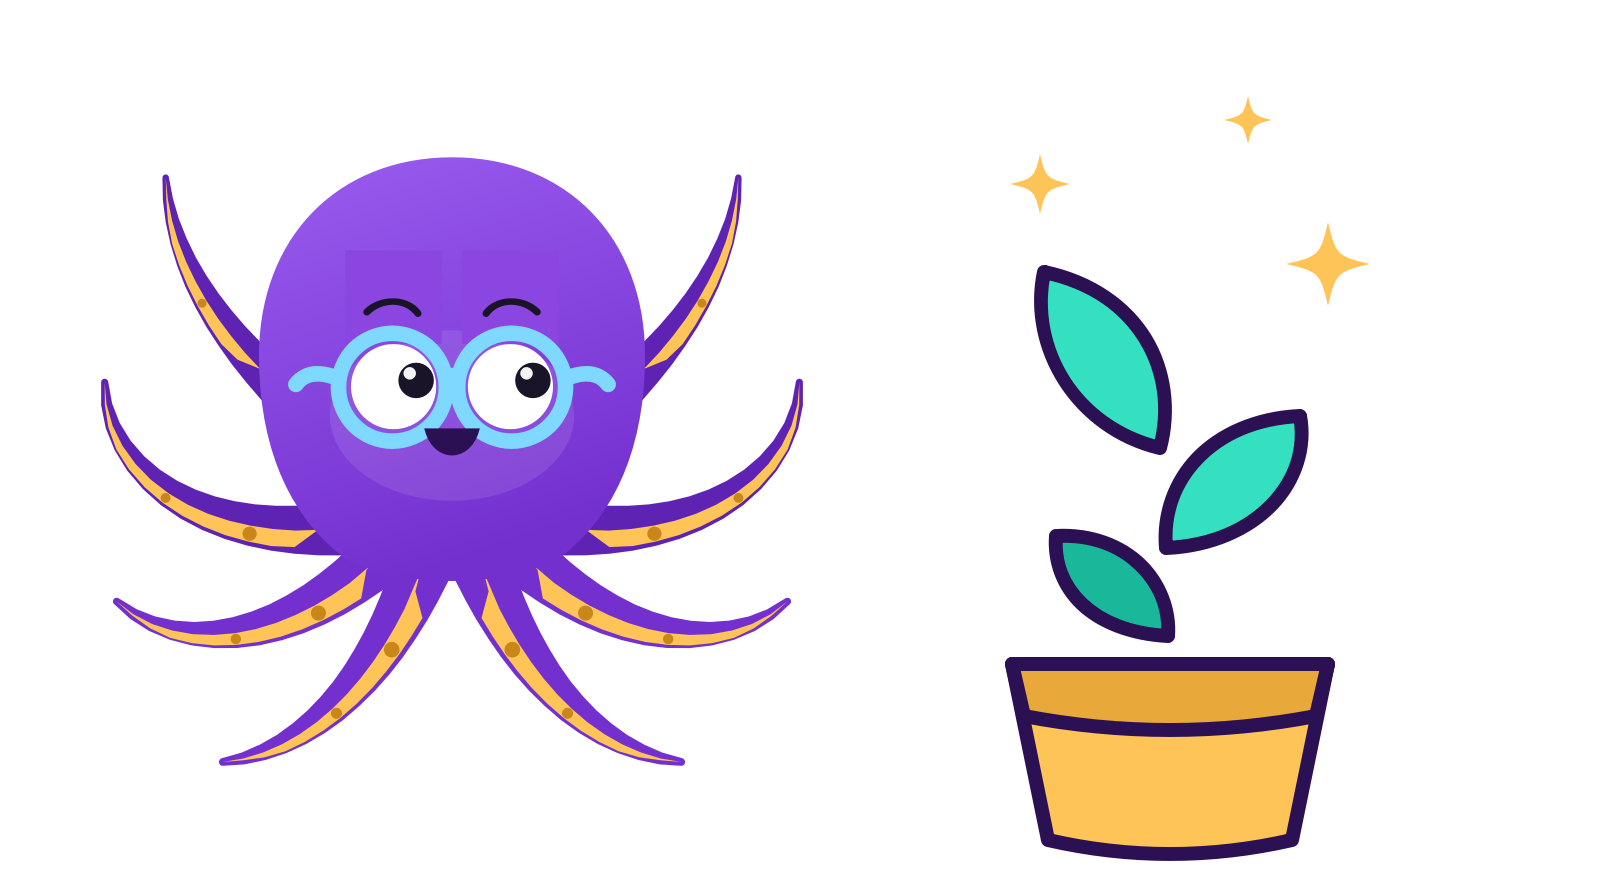
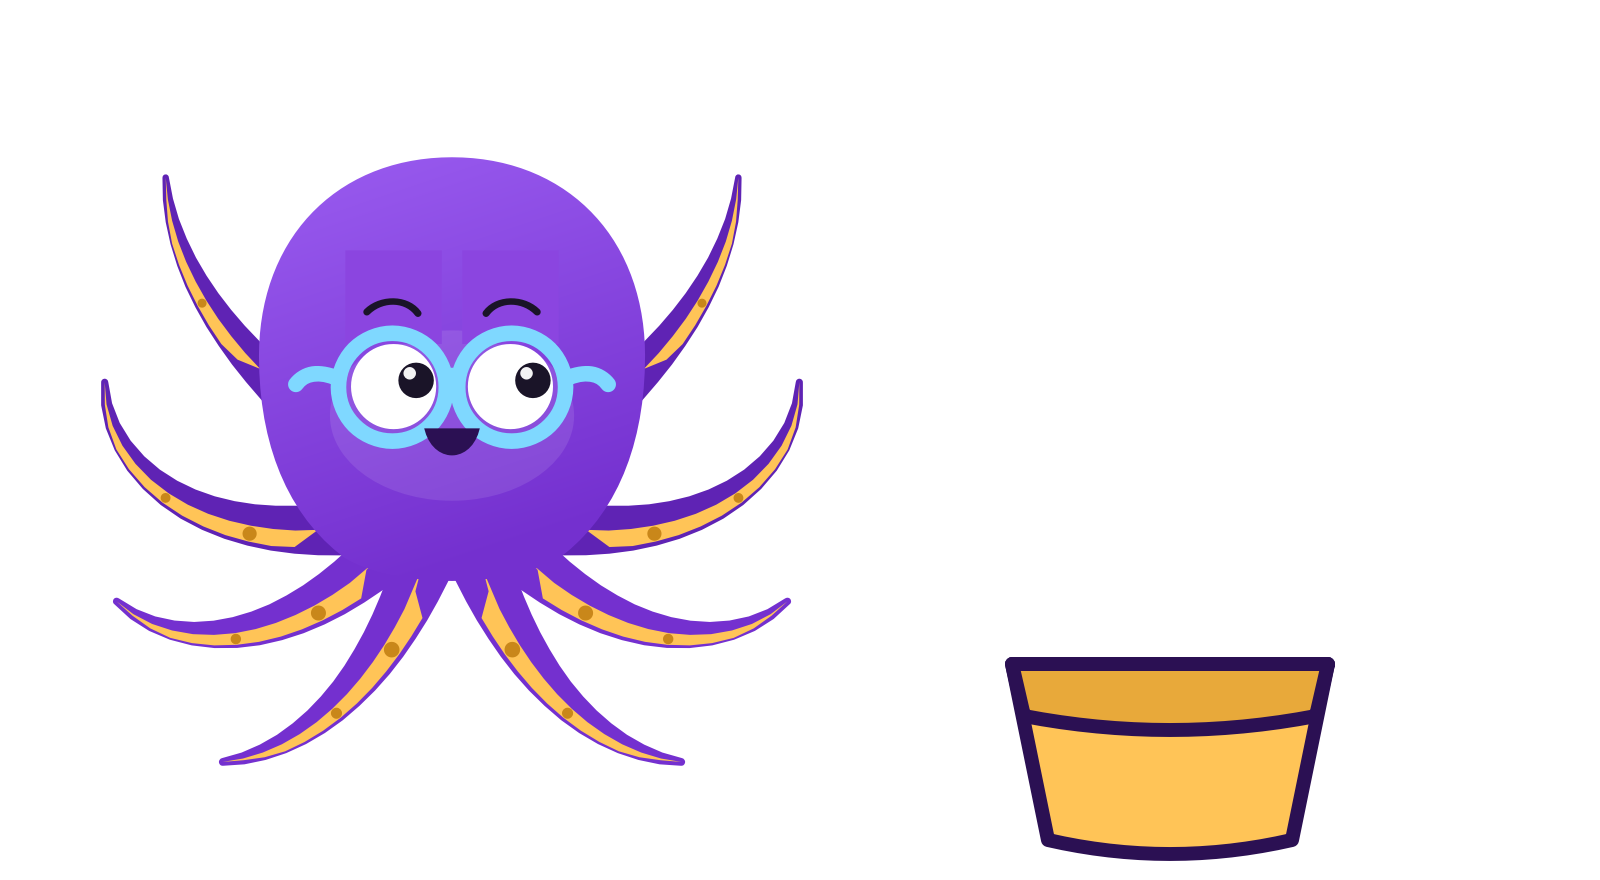
The stem grows first, carrying its leaves; then they open
Three things were wrong and the first explains the second. Each leaf was its own
animation at its own fixed position, so a leaf appeared in mid-air, above a stem
that had not grown up to it yet -- the leaf "up there". And the whole thing was
over in seven seconds, which is faster than the eye follows it.

So the stem and its leaves are now ONE group rising out of the soil line, with
the leaves folded to a third of their size while they travel. They are small
leaves on a growing stem, not nothing, and they move with the stem because they
are part of it. Only when the stem has reached its full height do the leaves
open, bottom one first, and the glints arrive after that.

One loop is thirteen seconds, with the plant grown for most of it.

Every part is keyed to the same `dur` with no `begin` offsets, so they cannot
drift apart however long the page has been open; the phases are fractions of the
one cycle instead. The timing was checked by parsing the finished SVG -- values
against keyTimes against keySplines, and keyTimes running 0 to 1 and never
backwards -- because SMIL with mismatched counts does not fail, it just quietly
does not animate.

diff --git a/docs/make_grow_scene.py b/docs/make_grow_scene.py
@@ -75,68 +75,90 @@ def placed(markup: str, x: int, y: int, size: int) -> str:
     return f'<g transform="translate({x},{y}) scale({k:.4f})">{inner}</g>'
 
 
-def spark(x: float, y: float, r: float, start: float) -> str:
-    """A four-pointed glint that pops after the leaf it belongs to, then twinkles.
+CYCLE = "13s"            # slow enough to watch: it was over before the eye had followed it
 
-    The glints are what turn "a plant" into "it just did that". They arrive late on purpose: a
-    sparkle before the thing it is celebrating reads as decoration."""
+# The cycle, as fractions of it. The stem has to REACH its height before a leaf opens, or a leaf
+# hangs in the air above a stem that has not got there yet -- which is exactly what it was doing.
+RISE_END = 0.30          # the stem is at full height here, carrying its leaves still folded
+OPEN_END = 0.46          # and here the leaves have opened
+HOLD_END = 0.92          # it stays grown for most of the cycle, then folds away
+
+
+def scaled(inner: str, ox: float, oy: float, values: str, keytimes: str, splines: str) -> str:
+    """Scale something about its own root, on the one shared clock.
+
+    The scaling nests translate -> scale -> translate-back rather than using a CSS transform-origin,
+    so the path data stays in the picture's own coordinates and behaves the same in a browser, in a
+    Markdown preview and in Qt. Everything is keyed to the SAME `dur`, with no `begin` offsets, so
+    the parts cannot drift out of step with each other however long the page has been open."""
+    return (f'<g transform="translate({ox},{oy})">'
+            f'<g><animateTransform attributeName="transform" type="scale"'
+            f' values="{values}" keyTimes="{keytimes}" dur="{CYCLE}"'
+            f' calcMode="spline" keySplines="{splines}" repeatCount="indefinite"/>'
+            f'<g transform="translate({-ox},{-oy})">{inner}</g></g></g>')
+
+
+def leaf(d: str, fill: str, ox: float, oy: float, order: float) -> str:
+    """A leaf that rides up with the stem folded, and opens once the stem has arrived.
+
+    `order` staggers the opening from the bottom leaf to the top one. It starts at 0.3 rather than 0
+    because a leaf is a small leaf while it travels, not nothing -- "the stem should have leaves
+    small, and then the small leaves grow"."""
+    open_at = RISE_END + 0.02 + order * 0.05
+    done_at = min(open_at + 0.1, OPEN_END + order * 0.04)
+    return scaled(f'<path d="{d}" fill="{fill}"/>', ox, oy,
+                  values="0.3 0.3;0.3 0.3;1 1;1 1",
+                  keytimes=f"0;{open_at:.3f};{done_at:.3f};1",
+                  splines="0 0 1 1;.2 .8 .3 1;0 0 1 1")
+
+
+def spark(x: float, y: float, r: float, order: float) -> str:
+    """A four-pointed glint, arriving after the leaves have opened.
+
+    The glints are what turn "a plant" into "it just did that". They are late on purpose: a sparkle
+    before the thing it is celebrating reads as decoration."""
+    at = OPEN_END + 0.03 + order * 0.035
     path = (f'<path d="M{x} {y - r}C{x + r * .18} {y - r * .22} {x + r * .22} {y - r * .18} {x + r} {y}'
             f'C{x + r * .22} {y + r * .18} {x + r * .18} {y + r * .22} {x} {y + r}'
             f'C{x - r * .18} {y + r * .22} {x - r * .22} {y + r * .18} {x - r} {y}'
             f'C{x - r * .22} {y - r * .18} {x - r * .18} {y - r * .22} {x} {y - r}Z" fill="{SPARK}">'
-            f'<animate attributeName="opacity" values="1;0.45;1;0.6;1" keyTimes="0;0.2;0.45;0.7;1"'
-            f' dur="2.2s" begin="{start}s" repeatCount="indefinite"/></path>')
-    return grows(path, x, y, start=start, rise=0.08)
-
-
-CYCLE = "7s"             # grow, hold, and away again, then round once more
-
-
-def grows(inner: str, ox: float, oy: float, start: float, rise: float = 0.20) -> str:
-    """Make something sprout from the point (ox, oy) and, at the end of the cycle, fold back into it.
-
-    The scaling is done by nesting translate -> scale -> translate-back, rather than by a CSS
-    transform-origin: the path data stays in the picture's own coordinates, and it behaves the same
-    in a browser, in a Markdown preview and in Qt. A renderer that ignores animation altogether draws
-    the base state, which is why that state is the FULL-GROWN one -- a still of this picture is a
-    plant, not an empty pot."""
-    return (f'<g transform="translate({ox},{oy})">'
-            f'<g><animateTransform attributeName="transform" type="scale" additive="replace"'
-            f' values="0 0;1 1;1 1;0 0" keyTimes="0;{rise};0.88;1" dur="{CYCLE}"'
-            f' calcMode="spline"'
-            f' keySplines=".2 .9 .3 1;0 0 1 1;.7 0 .9 .4"'
-            f' begin="{start}s" repeatCount="indefinite"/>'
-            f'<g transform="translate({-ox},{-oy})">{inner}</g></g></g>')
+            f'<animate attributeName="opacity" values="1;0.4;1;0.55;1" dur="2.6s"'
+            f' repeatCount="indefinite"/></path>')
+    return scaled(path, x, y,
+                  values=f"0 0;0 0;1 1;1 1;0 0",
+                  keytimes=f"0;{at:.3f};{at + 0.04:.3f};{HOLD_END};1",
+                  splines=".2 .8 .3 1;.2 .9 .3 1;0 0 1 1;.7 0 .9 .4")
 
 
 def plant() -> str:
-    """The pot, the stem and three leaves -- each one bigger than the last, because the picture has to
-    say *growing* and not merely *a plant*. Drawn with his outline so the two belong together.
+    """The pot, then everything that grows out of it.
 
-    They come up in order, out of the soil line at the top of the pot, each one a little after the
-    one below it. That stagger is the whole illusion: three things scaling at once reads as a picture
-    being zoomed, and the same three a third of a second apart reads as something growing."""
+    The stem and its leaves are ONE group rising from the soil line, so the leaves travel up with the
+    stem instead of waiting in mid-air for it: that was the bug you could see. Only once the stem is
+    at its full height do the leaves open, bottom first."""
     SOIL = (588, 336)
     out = [f'<g stroke="{INK}" stroke-width="{OW}" stroke-linejoin="round" stroke-linecap="round">']
     # the pot does not grow: it is the thing everything else grows out of
     out.append(f'<path d="M506 332 L664 332 L646 420 Q585 434 524 420 Z" fill="{POT}"/>')
     out.append(f'<path d="M506 332 L664 332 L658 358 Q585 372 512 358 Z" fill="{POT_DEEP}"/>')
-    # the stem, leaning the way it is growing
-    out.append(grows(f'<path d="M588 334 C585 290 572 258 580 206" fill="none" stroke="{STEM}"'
-                     f' stroke-width="15"/>', *SOIL, start=0.0, rise=0.30))
-    # three leaves, smallest at the bottom: the eye reads that as time
-    out.append(grows(f'<path d="M584 318 C546 316 526 294 528 268 C564 266 586 292 584 318Z"'
-                     f' fill="{LEAF_DEEP}"/>', 584, 318, start=0.55))
-    out.append(grows(f'<path d="M583 274 C629 272 656 240 650 208 C606 210 580 240 583 274Z"'
-                     f' fill="{LEAF}"/>', 583, 276, start=1.15))
-    out.append(grows(f'<path d="M580 224 C538 214 514 174 522 136 C570 146 590 186 580 224Z"'
-                     f' fill="{LEAF}"/>', 580, 226, start=1.8))
+
+    stem = (f'<path d="M588 334 C585 290 572 258 580 206" fill="none" stroke="{STEM}"'
+            f' stroke-width="15"/>')
+    leaves = "".join([
+        leaf("M584 318 C546 316 526 294 528 268 C564 266 586 292 584 318Z", LEAF_DEEP, 584, 318, 0),
+        leaf("M583 274 C629 272 656 240 650 208 C606 210 580 240 583 274Z", LEAF, 583, 276, 1),
+        leaf("M580 224 C538 214 514 174 522 136 C570 146 590 186 580 224Z", LEAF, 580, 226, 2),
+    ])
+    # the stem and its leaves rise together, out of the soil
+    out.append(scaled(stem + leaves, *SOIL,
+                      values="0 0;1 1;1 1;0 0",
+                      keytimes=f"0;{RISE_END};{HOLD_END};1",
+                      splines=".25 .7 .35 1;0 0 1 1;.7 0 .9 .4"))
     out.append('</g>')
-    # and the glints, which are what make it *just happened* rather than *a plant in a pot*
-    out.append(spark(664, 132, 21, start=2.3))
-    out.append(spark(520, 92, 15, start=2.65))
-    out.append(spark(624, 60, 12, start=2.95))
-    return "\n  ".join(out)
+    out.append(spark(664, 132, 21, 0))
+    out.append(spark(520, 92, 15, 1))
+    out.append(spark(624, 60, 12, 2))
+    return (chr(10) + "  ").join(out)
 
 
 def scene() -> str:
